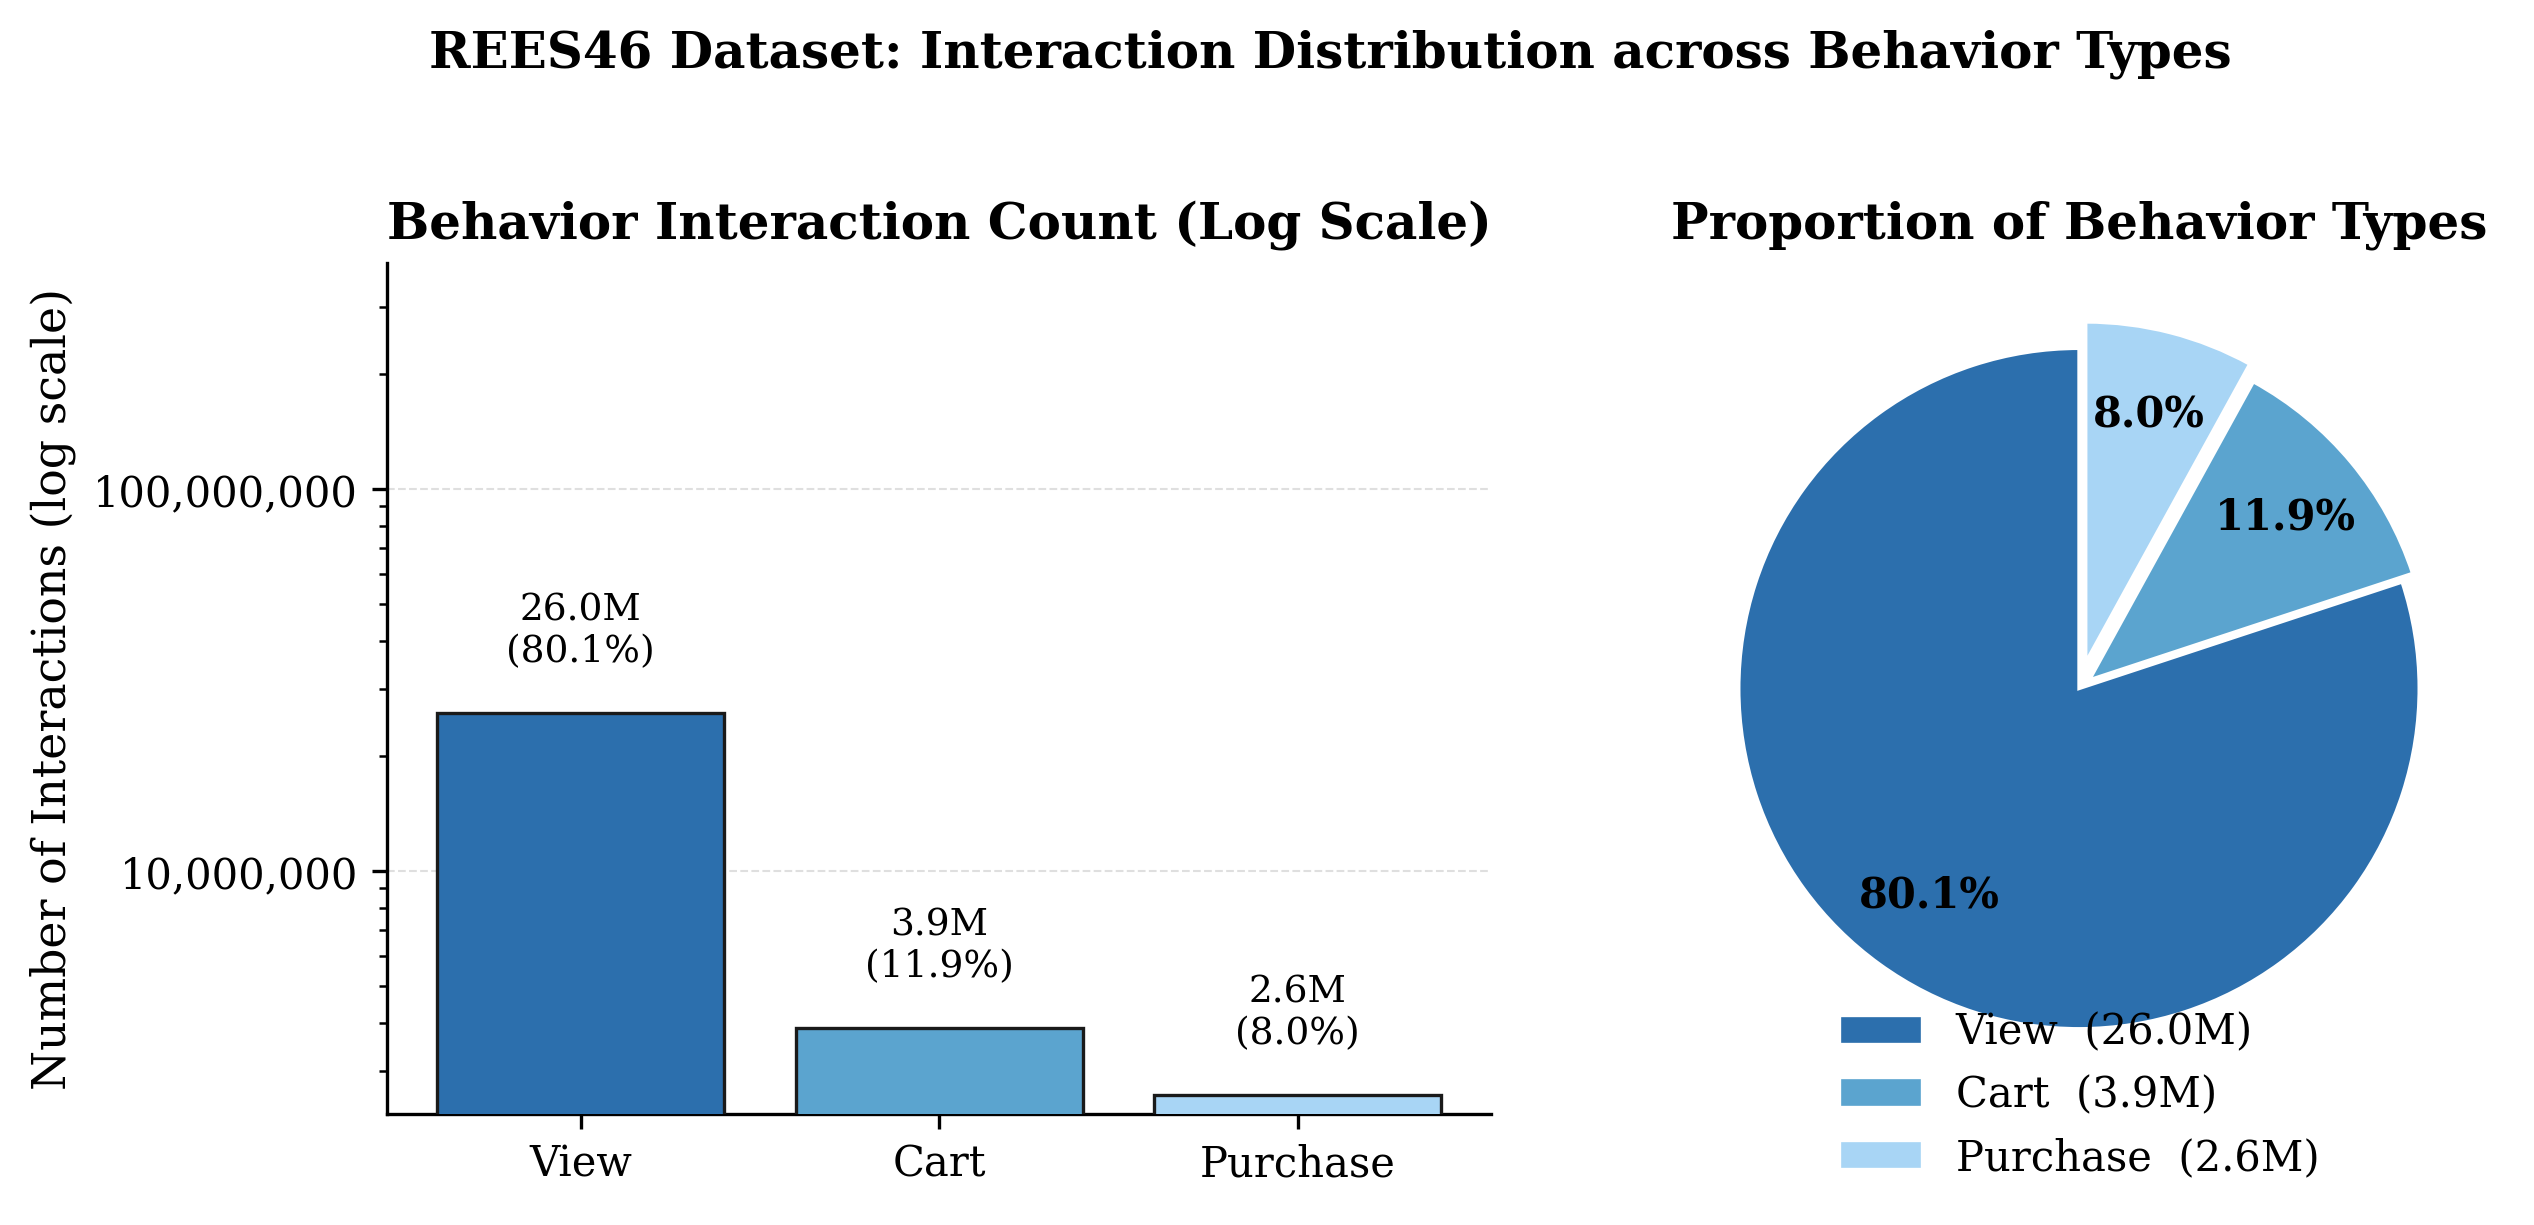
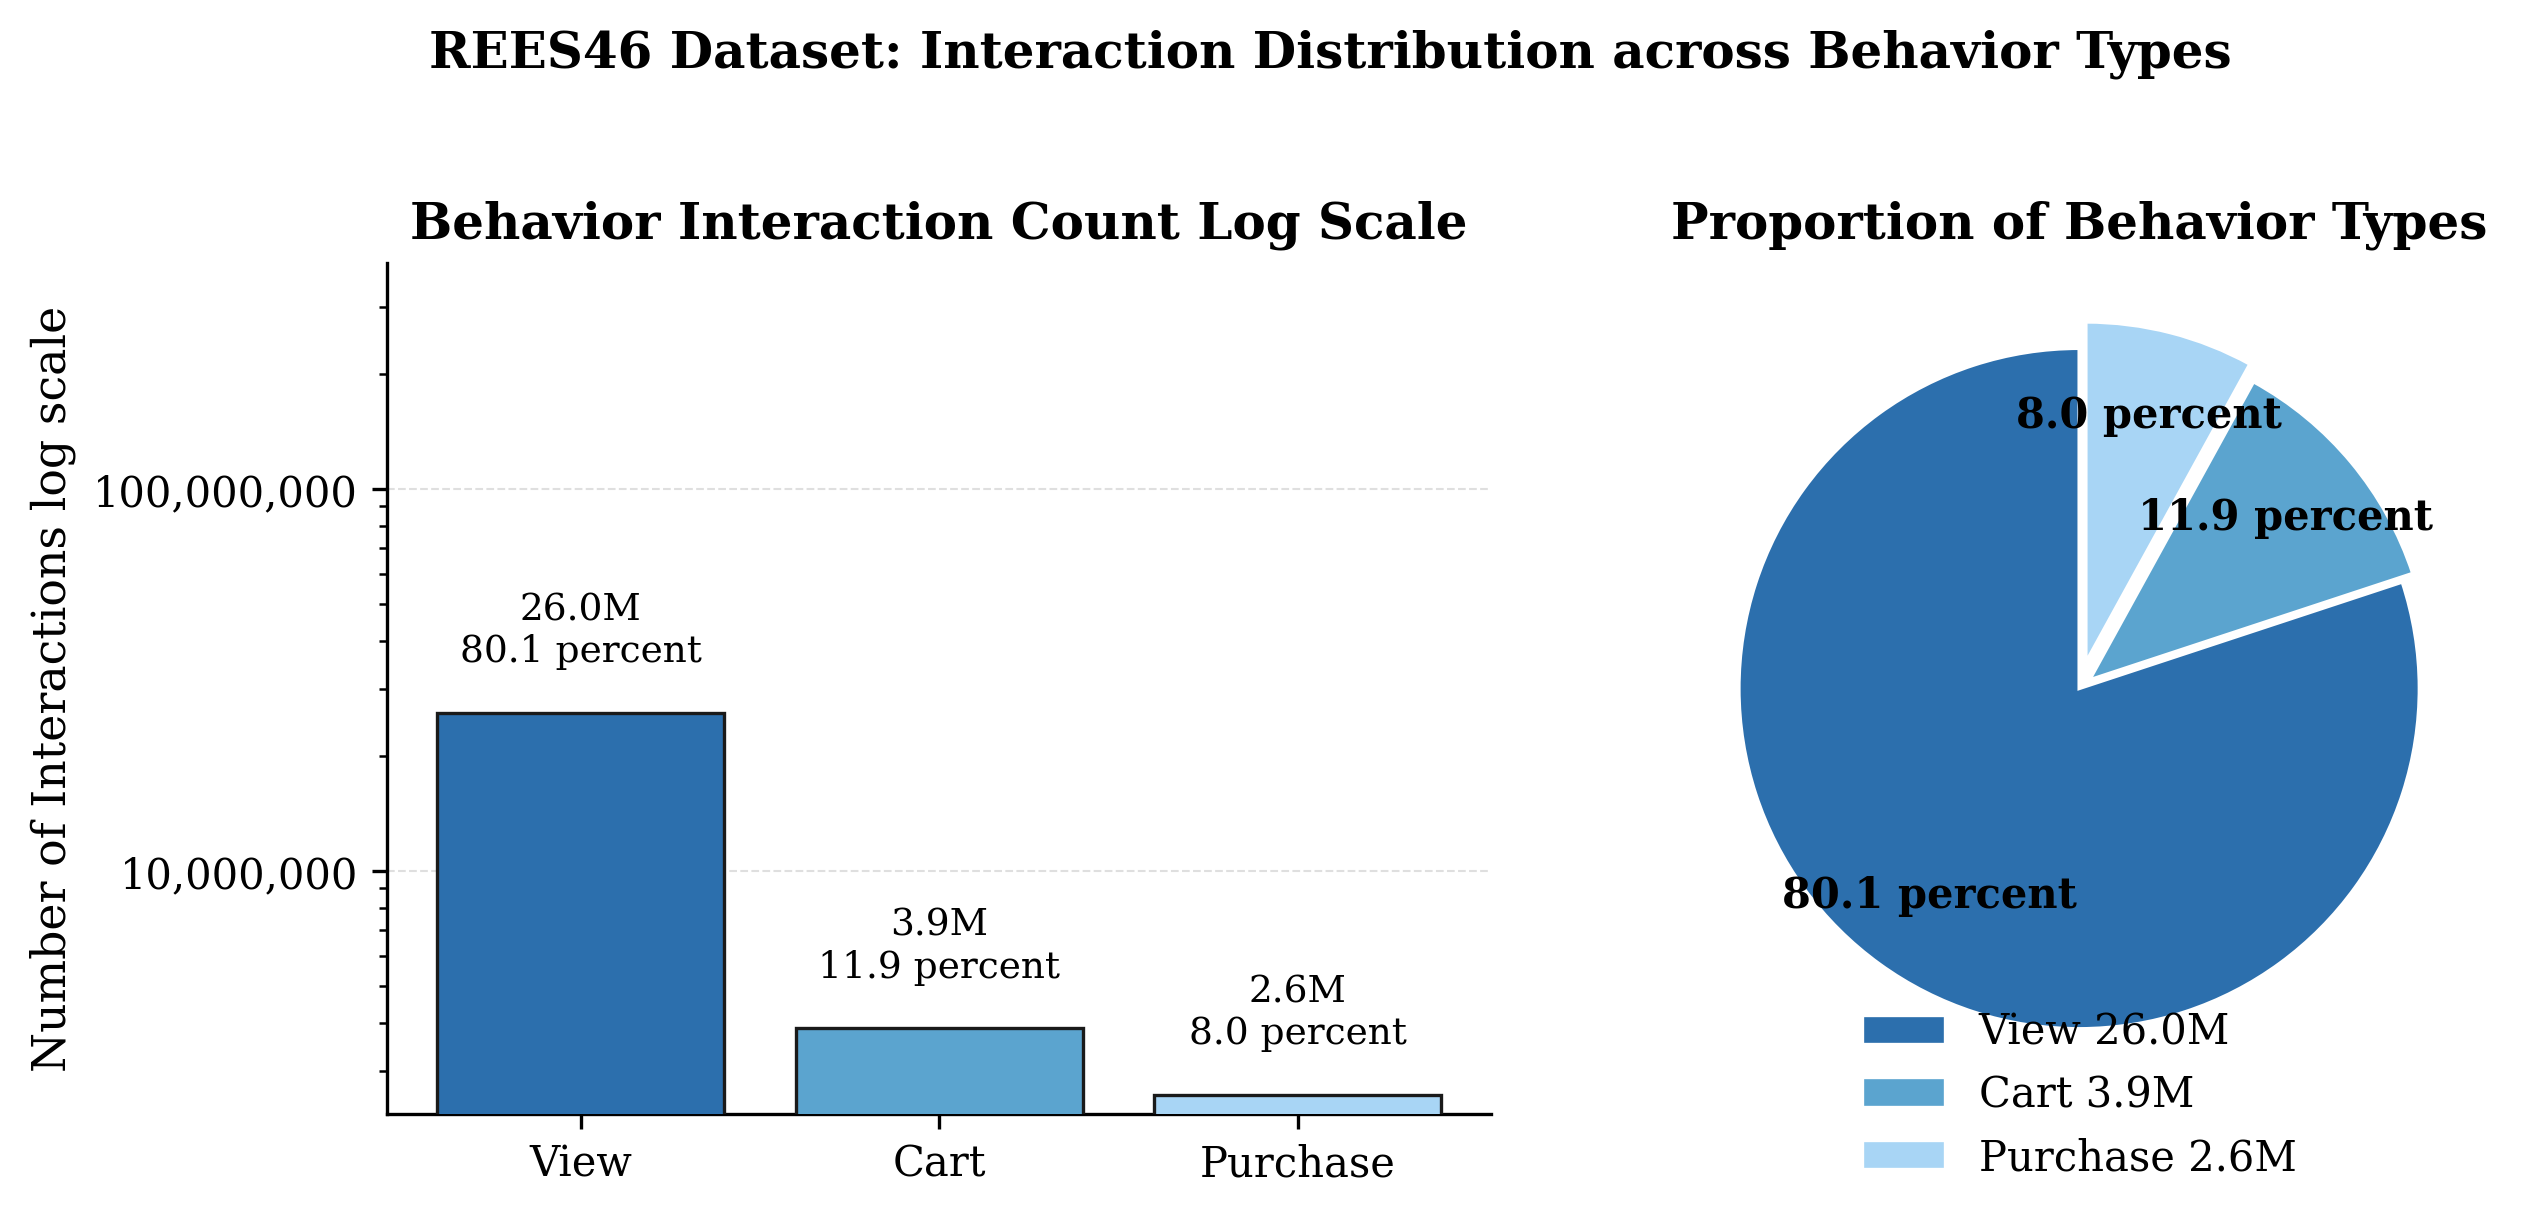
update README

diff --git a/src/model/bpatmp.py b/src/model/bpatmp.py
@@ -64,7 +64,7 @@ class BehaviorAwareWeight(nn.Module):
         self,
         in_dim: int,
         out_dim: int,
-        rank: int = 16,
+        rank: int = 64,
         n_relations: int = len(ALL_EDGE_TYPES),
         n_beta: int = 4,
     ) -> None:
@@ -90,6 +90,45 @@ class BehaviorAwareWeight(nn.Module):
         # A_ρ · diag(z_β) = A_ρ * z_β (element-wise broadcast on last dim)
         A_scaled = self.A_rho[rho] * self.z_beta[b_idx]  # [out_dim, rank]
         return self.W_rho[rho] + A_scaled @ self.B_rho[rho].T
+    
+class BehaviorNormalizedAgg(nn.Module):
+    def __init__(self, out_dim: int) -> None:
+        super().__init__()
+        self.beh_w = nn.ParameterDict({t: nn.Parameter(_BEH_W_INIT.clone()) for t in NODE_TYPES})
+        self.norms = nn.ModuleDict(
+            {f"{t}__{b}": nn.LayerNorm(out_dim) for t in NODE_TYPES for b in BEH_BUCKETS}
+        )
+
+    def forward(
+        self,
+        agg_pb: Dict[str, Dict[str, Optional[Tensor]]],
+        x_dict: Dict[str, Tensor],
+    ) -> Dict[str, Tensor]:
+        out: Dict[str, Tensor] = {}
+        for t in NODE_TYPES:
+            present = [(i, b) for i, b in enumerate(BEH_BUCKETS) if agg_pb[t][b] is not None]
+            if not present:
+                if t in x_dict:
+                    out[t] = x_dict[t]
+                continue
+
+            if t == "user":
+                present_idx = [i for i, _ in present]
+                w_present = F.softmax(self.beh_w[t][present_idx], dim=0)
+                mixed = sum(
+                    w_present[j] * self.norms[f"{t}__{b}"](agg_pb[t][b])
+                    for j, (_, b) in enumerate(present)
+                )
+            else:
+                w = F.softmax(self.beh_w[t], dim=0)
+                mixed = sum(
+                    w[i] * self.norms[f"{t}__{b}"](agg_pb[t][b])
+                    for i, b in present
+                )
+            if t in x_dict and x_dict[t].shape == mixed.shape:
+                mixed = mixed + x_dict[t]
+            out[t] = F.elu(mixed)
+        return out
 
 class FourierTimeEncoding(nn.Module):
     """Bien doi thoi gian delta_t thanh vector Fourier features.
@@ -127,7 +166,7 @@ class FourierTimeEncoding(nn.Module):
 class TemporalAttention(nn.Module):
     """Temporal attention voi decay-in-logit va value gate.
 
-    Cong thuc theo CLAUDE.md §8.4 va §8.6:
+    Cong thuc
         logit = Q·K/√d + b_ρ + u_{ρ,β}ᵀ Φ(Δt) − λ_β · log(1 + Δt/τ)
         alpha = scatter_softmax(logit, dst_idx)
         gate  = σ(c_{ρ,β} + r_{ρ,β}ᵀ Φ(Δt) − μ_β · log(1 + Δt/τ))
@@ -235,51 +274,7 @@ BEH_BUCKETS: Tuple[str, str, str, str] = ("view", "cart", "purchase", "struct")
 _BEH_W_INIT = torch.tensor([0.30, 0.50, 1.00, 0.40])
 
 
-class BehaviorNormalizedAgg(nn.Module):
-    def __init__(self, out_dim: int) -> None:
-        super().__init__()
-        self.beh_w = nn.ParameterDict({t: nn.Parameter(_BEH_W_INIT.clone()) for t in NODE_TYPES})
-        self.norms = nn.ModuleDict(
-            {f"{t}__{b}": nn.LayerNorm(out_dim) for t in NODE_TYPES for b in BEH_BUCKETS}
-        )
 
-    def forward(
-        self,
-        agg_pb: Dict[str, Dict[str, Optional[Tensor]]],
-        x_dict: Dict[str, Tensor],
-    ) -> Dict[str, Tensor]:
-        out: Dict[str, Tensor] = {}
-        for t in NODE_TYPES:
-            present = [(i, b) for i, b in enumerate(BEH_BUCKETS) if agg_pb[t][b] is not None]
-            if not present:
-                if t in x_dict:
-                    out[t] = x_dict[t]
-                continue
-
-            if t == "user":
-                # User nodes do not receive structural messages directly here.
-                # Normalize across present behavior buckets only, so an absent
-                # "struct" bucket cannot consume probability mass.
-                present_idx = [i for i, _ in present]
-                w_present = F.softmax(self.beh_w[t][present_idx], dim=0)
-                mixed = sum(
-                    w_present[j] * self.norms[f"{t}__{b}"](agg_pb[t][b])
-                    for j, (_, b) in enumerate(present)
-                )
-            else:
-                # Keep non-user bucket weights on the global 4-way scale. In
-                # product-only eval, behavior buckets are absent; renormalizing
-                # structural messages to weight 1.0 makes item embeddings drift
-                # away from the training surface.
-                w = F.softmax(self.beh_w[t], dim=0)
-                mixed = sum(
-                    w[i] * self.norms[f"{t}__{b}"](agg_pb[t][b])
-                    for i, b in present
-                )
-            if t in x_dict and x_dict[t].shape == mixed.shape:
-                mixed = mixed + x_dict[t]
-            out[t] = F.elu(mixed)
-        return out
 
 class BPATMPConv(nn.Module):
     def __init__(

diff --git a/src/data_pipeline/transform.py b/src/data_pipeline/transform.py
@@ -62,7 +62,6 @@ def filter_by_train_only_counts(
 
         logger.info("filter_by_train_only_counts: vòng %d/%d xong.", r + 1, rounds)
 
-    # Một checkpoint cuối (thay vì mỗi vòng) để cắt lineage nhưng tránh ghi đĩa ~3× trên Colab.
     df = df.checkpoint(eager=False)
     logger.info("filter_by_train_only_counts: đã queue checkpoint cuối.")
 
@@ -79,8 +78,7 @@ def temporal_split_purchases(
     drop_repeated_train_purchases_from_eval: bool = True,
     protocol_name: str = "warm_new_purchase_full_ranking",
 ) -> SplitResult:
-    """Kéo các dòng đúng hành vi mục tiêu sang Pandas và chia theo mốc ngày.
-    """
+    
     purchase_spark = df.filter(F.col("event_type") == target_behavior).select(
         F.col("user_id"),
         F.col("product_id").alias("item_id"),
@@ -260,7 +258,7 @@ def build_structural_edges(
 
     if missing_meta_products:
         logger.info(
-            "build_structural_edges: %d sản phẩm không có metadata trong các dòng nguồn → "
+            "build_structural_edges: %d sản phẩm không có metadata trong các dòng nguồn "
             "gán category/brand unknown.",
             len(missing_meta_products),
         )
